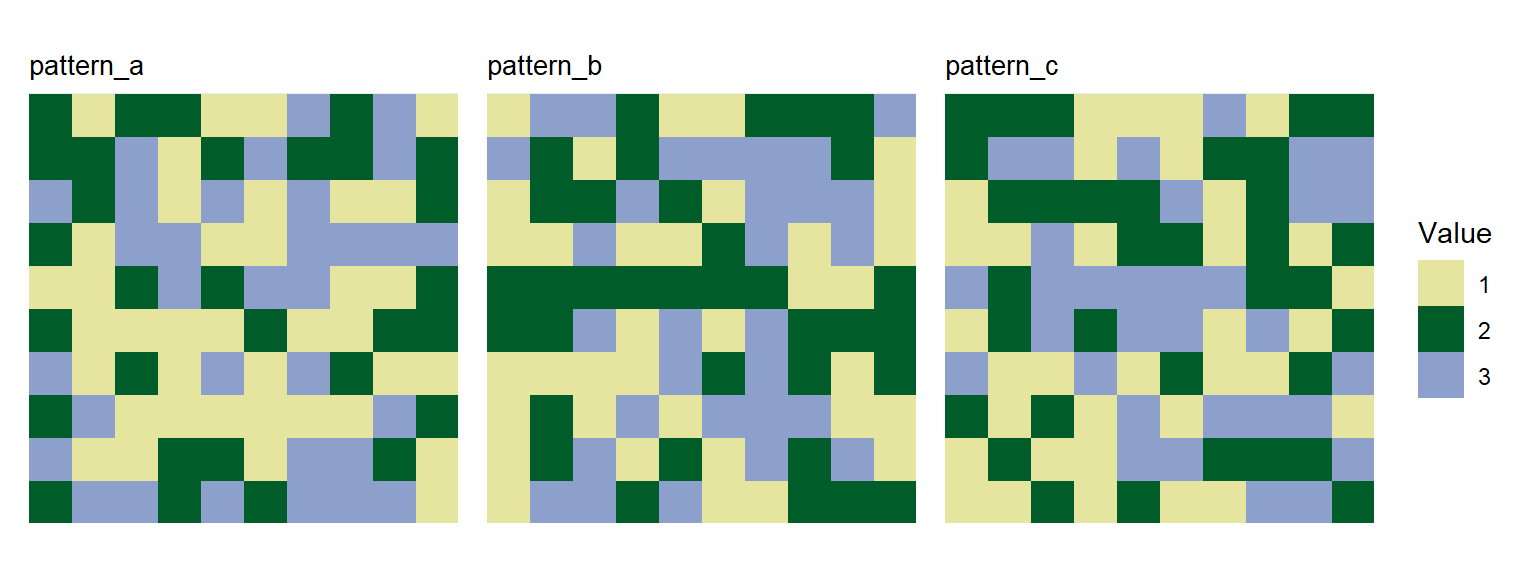
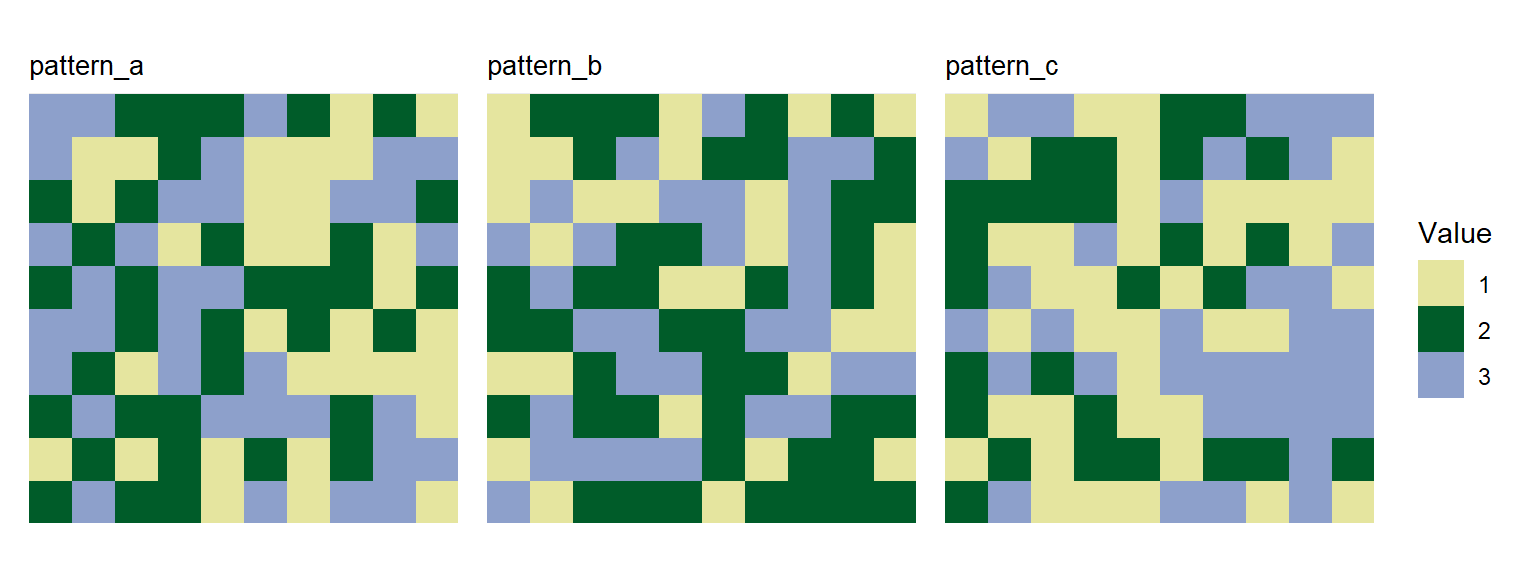
Update Website

diff --git a/docs/articles/landscape-generation.html b/docs/articles/landscape-generation.html
@@ -92,7 +92,7 @@
 </h2>
 <p>You can:</p>
 <ul>
-<li>Generate batches of training landscapes with <code><a href="../reference/create_training_landscapes.html">create_training_landscapes()</a></code>
+<li>Generate batches of training landscapes with <code><a href="../reference/create_landscapes.html">create_landscapes()</a></code>
 </li>
 <li>Create individual landscapes with custom parameters using <code><a href="../reference/create_landscape.html">create_landscape()</a></code>
 </li>
@@ -102,7 +102,7 @@
 </ul>
 <section class="level3"><h3 id="available-patterns">Available patterns<a class="anchor" aria-label="anchor" href="#available-patterns"></a>
 </h3>
-<p>There are 11 different spatial patterns available:</p>
+<p>Currently, there are 11 different spatial patterns available:</p>
 <section class="level4"><h4 id="control-patterns">Control patterns<a class="anchor" aria-label="anchor" href="#control-patterns"></a>
 </h4>
 <ul>
@@ -164,11 +164,11 @@
 <p>For detailed parameter descriptions and examples of each pattern type, see <code><a href="../reference/create_landscape.html">?create_landscape</a></code>.</p>
 </section></section></section><section class="level2"><h2 id="creating-multiple-training-landscapes">Creating Multiple Training Landscapes<a class="anchor" aria-label="anchor" href="#creating-multiple-training-landscapes"></a>
 </h2>
-<p>The quickest way to generate training data is with <code><a href="../reference/create_training_landscapes.html">create_training_landscapes()</a></code>. It generates multiple landscapes balanced across all available patterns.</p>
+<p>The quickest way to generate training data is with <code><a href="../reference/create_landscapes.html">create_landscapes()</a></code>. It generates multiple landscapes balanced across all available patterns.</p>
 <div class="cell">
 <div class="sourceCode cell-code" id="cb2"><pre class="downlit sourceCode r">
 <code class="sourceCode R"><span><span class="co"># Create 20 landscapes balanced across all pattern types</span></span>
-<span><span class="va">landscapes</span> <span class="op">&lt;-</span> <span class="fu"><a href="../reference/create_training_landscapes.html">create_training_landscapes</a></span><span class="op">(</span>n <span class="op">=</span> <span class="fl">20</span><span class="op">)</span></span>
+<span><span class="va">landscapes</span> <span class="op">&lt;-</span> <span class="fu"><a href="../reference/create_landscapes.html">create_landscapes</a></span><span class="op">(</span>n <span class="op">=</span> <span class="fl">20</span><span class="op">)</span></span>
 <span><span class="co">#&gt; ✔ Successfully generated all 20 training landscapes</span></span></code></pre></div>
 </div>
 <p>The <code>landscapes</code> are returned as a list of <code>landscape</code> objects (see <a href="landscape-generation.qmd#landscape-object-structure">below</a> for more info on the data structure).</p>
@@ -201,7 +201,7 @@
 <div class="cell">
 <div class="sourceCode cell-code" id="cb5"><pre class="downlit sourceCode r">
 <code class="sourceCode R"><span><span class="co"># Generate only specific patterns</span></span>
-<span><span class="va">landscapes</span> <span class="op">&lt;-</span> <span class="fu"><a href="../reference/create_training_landscapes.html">create_training_landscapes</a></span><span class="op">(</span></span>
+<span><span class="va">landscapes</span> <span class="op">&lt;-</span> <span class="fu"><a href="../reference/create_landscapes.html">create_landscapes</a></span><span class="op">(</span></span>
 <span>  n <span class="op">=</span> <span class="fl">12</span>,</span>
 <span>  patterns <span class="op">=</span> <span class="fu"><a href="https://rdrr.io/r/base/c.html" class="external-link">c</a></span><span class="op">(</span><span class="st">"labyrinth"</span>, <span class="st">"spots"</span>, <span class="st">"clustered"</span><span class="op">)</span></span>
 <span><span class="op">)</span></span>
@@ -222,7 +222,7 @@
 <p>To modify the size (number of pixels in x- and y-direction) of all generated landscapes, use the <code>ncol</code> and <code>nrow</code> arguments. By default, landscapes are created with a size of 100x100 pixels.</p>
 <div class="cell">
 <div class="sourceCode cell-code" id="cb6"><pre class="downlit sourceCode r">
-<code class="sourceCode R"><span><span class="va">non_square</span> <span class="op">&lt;-</span> <span class="fu"><a href="../reference/create_training_landscapes.html">create_training_landscapes</a></span><span class="op">(</span></span>
+<code class="sourceCode R"><span><span class="va">non_square</span> <span class="op">&lt;-</span> <span class="fu"><a href="../reference/create_landscapes.html">create_landscapes</a></span><span class="op">(</span></span>
 <span>  n <span class="op">=</span> <span class="fl">3</span>,</span>
 <span>  width <span class="op">=</span> <span class="fl">50</span>,</span>
 <span>  height <span class="op">=</span> <span class="fl">20</span></span>
@@ -244,13 +244,13 @@
 <p>You can also control used rotation angles directly using <code>rotation_angles</code>.</p>
 <div class="cell">
 <div class="sourceCode cell-code" id="cb7"><pre class="downlit sourceCode r">
-<code class="sourceCode R"><span><span class="va">no_rotation</span> <span class="op">&lt;-</span> <span class="fu"><a href="../reference/create_training_landscapes.html">create_training_landscapes</a></span><span class="op">(</span></span>
+<code class="sourceCode R"><span><span class="va">no_rotation</span> <span class="op">&lt;-</span> <span class="fu"><a href="../reference/create_landscapes.html">create_landscapes</a></span><span class="op">(</span></span>
 <span>  n <span class="op">=</span> <span class="fl">3</span>,</span>
 <span>  patterns <span class="op">=</span> <span class="fu"><a href="https://rdrr.io/r/base/c.html" class="external-link">c</a></span><span class="op">(</span><span class="st">"clustered"</span>, <span class="st">"sharp"</span>, <span class="st">"bands"</span><span class="op">)</span>,</span>
 <span>  add_rotation <span class="op">=</span> <span class="cn">FALSE</span></span>
 <span><span class="op">)</span></span>
 <span></span>
-<span><span class="va">defined_angles</span> <span class="op">&lt;-</span> <span class="fu"><a href="../reference/create_training_landscapes.html">create_training_landscapes</a></span><span class="op">(</span></span>
+<span><span class="va">defined_angles</span> <span class="op">&lt;-</span> <span class="fu"><a href="../reference/create_landscapes.html">create_landscapes</a></span><span class="op">(</span></span>
 <span>  n <span class="op">=</span> <span class="fl">3</span>,</span>
 <span>  patterns <span class="op">=</span> <span class="st">"clustered"</span>,</span>
 <span>  rotation_angles <span class="op">=</span> <span class="fu"><a href="https://rdrr.io/r/base/c.html" class="external-link">c</a></span><span class="op">(</span><span class="fl">45</span>, <span class="fl">90</span><span class="op">)</span></span>
@@ -277,7 +277,7 @@
 <span>    spot_radius_sd <span class="op">=</span> <span class="fl">3</span></span>
 <span>  <span class="op">)</span></span>
 <span><span class="op">)</span></span>
-<span><span class="va">bigger_spots</span> <span class="op">&lt;-</span> <span class="fu"><a href="../reference/create_training_landscapes.html">create_training_landscapes</a></span><span class="op">(</span></span>
+<span><span class="va">bigger_spots</span> <span class="op">&lt;-</span> <span class="fu"><a href="../reference/create_landscapes.html">create_landscapes</a></span><span class="op">(</span></span>
 <span>  n <span class="op">=</span> <span class="fl">12</span>,</span>
 <span>  patterns <span class="op">=</span> <span class="st">"spots"</span>,</span>
 <span>  params_list <span class="op">=</span> <span class="va">pattern_params</span></span>

diff --git a/docs/articles/classify-metrics.html b/docs/articles/classify-metrics.html
@@ -91,7 +91,7 @@
 </div>
 <p>The workflow consists of the following steps:</p>
 <ol type="1">
-<li>Generate training landscapes with known patterns using the <code><a href="../reference/create_training_landscapes.html">create_training_landscapes()</a></code> function.</li>
+<li>Generate training landscapes with known patterns using the <code><a href="../reference/create_landscapes.html">create_landscapes()</a></code> function.</li>
 <li>Calculate landscape metrics for the training landscapes using the <code><a href="../reference/calculate_landscape_metrics.html">calculate_landscape_metrics()</a></code> function.</li>
 <li>Select most informative metrics (i.e. metrics that differ the most between landscapes) using the <code><a href="../reference/evaluate_landscape_metrics.html">evaluate_landscape_metrics()</a></code> function.</li>
 <li>Train a neural network using the selected metrics with the <code><a href="../reference/train_nn_metrics.html">train_nn_metrics()</a></code> function.</li>
@@ -103,7 +103,7 @@
 <div class="cell">
 <div class="sourceCode cell-code" id="cb2"><pre class="downlit sourceCode r">
 <code class="sourceCode R"><span><span class="co"># Generate 100 training landscapes of 3 patterns</span></span>
-<span><span class="va">landscapes</span> <span class="op">&lt;-</span> <span class="fu"><a href="../reference/create_training_landscapes.html">create_training_landscapes</a></span><span class="op">(</span></span>
+<span><span class="va">landscapes</span> <span class="op">&lt;-</span> <span class="fu"><a href="../reference/create_landscapes.html">create_landscapes</a></span><span class="op">(</span></span>
 <span>  n <span class="op">=</span> <span class="fl">100</span>,</span>
 <span>  patterns <span class="op">=</span> <span class="fu"><a href="https://rdrr.io/r/base/c.html" class="external-link">c</a></span><span class="op">(</span><span class="st">"labyrinth"</span>, <span class="st">"random"</span>, <span class="st">"clustered"</span><span class="op">)</span></span>
 <span><span class="op">)</span></span>
@@ -123,11 +123,11 @@
 </div>
 </section><section class="level2"><h2 id="step-3-evaluate-landscape-metrics">Step 3: Evaluate Landscape Metrics<a class="anchor" aria-label="anchor" href="#step-3-evaluate-landscape-metrics"></a>
 </h2>
-<p>You can use the <code>evaluate_landscape_metrics</code> function to select the 10 most informative metrics for classification based on different methods. Here, we use the p-values of a Kruskal-Wallis H test (for more details and other options see <a href="landscape-metrics.html">landscape metrics vignette</a>).</p>
+<p>You can use the <code>evaluate_landscape_metrics</code> function to select the n (e.g. n=10) most informative metrics for classification based on different methods. Here, we use the p-values of a Kruskal-Wallis H test (for more details and other options see <a href="landscape-metrics.html">landscape metrics vignette</a>).</p>
 <div>
 <blockquote>
 <p><strong>Note</strong></p>
-<p>Note, that some metrics may return <code>NA</code> for some landscapes. Also, some metrics may have the same value for each landscape (zero variance between the values). These metrics get removed before evaluation and the user gets warned about the metrics that are removed.</p>
+<p>Note, that some metrics may return <code>NA</code> for some landscapes. Also, some metrics may have the same value for each landscape (zero variance between the values). By default, these metrics are removed before evaluation and the user gets warned about the metrics that are removed.</p>
 <p>It is not recommended to set <code>exclude_na = FALSE</code>, as metrics with <code>NA</code> values cannot be used for training the neural network. They may however be informative and useful for other types of analyses.</p>
 </blockquote>
 </div>
@@ -144,6 +144,7 @@
 <span><span class="co">#&gt; `exclude_NA_metrics = FALSE` to retain (not recommended for model training)</span></span>
 <span><span class="co">#&gt; Warning: Excluded 1 metrics with zero variance: "pr"</span></span></code></pre></div>
 </div>
+<p>Alternatively, you can manually select the metrics you want to use for further evaluation. For this, just provide a list of the metric names you are interested in.</p>
 <p>You can plot the differences between patterns for the selected metrics using the <code>plot_metrics</code> function.</p>
 <div class="cell">
 <div class="sourceCode cell-code" id="cb5"><pre class="downlit sourceCode r">
@@ -182,7 +183,7 @@
 <span>  verbose <span class="op">=</span> <span class="cn">FALSE</span></span>
 <span><span class="op">)</span></span></code></pre></div>
 </div>
-<p>To check the model performance, we can look at the confusion matrix from cross-validation:</p>
+<p>To check the model performance, you can look at the confusion matrix from cross-validation:</p>
 <div class="cell">
 <div class="sourceCode cell-code" id="cb7"><pre class="downlit sourceCode r">
 <code class="sourceCode R"><span><span class="co"># Confusion matrix from cross-validation</span></span>
@@ -214,17 +215,17 @@
 </section><section class="level2"><h2 id="step-5-classify-new-landscapes">Step 5: Classify New Landscapes<a class="anchor" aria-label="anchor" href="#step-5-classify-new-landscapes"></a>
 </h2>
 <p>Finally, you can create some new test landscapes and classify them using the trained model. In this example, we create 10 new landscapes for testing.</p>
-<p>In reality this could be landscapes read in from files or created in other ways. For details on importing own landscapes, see the <a href="importing-landscapes.html">importing landscapes vignette</a>.</p>
+<p>In reality these could be landscapes read in from files or created in other ways (e.g. outputs of simulation models). For details on importing own landscapes, see the <a href="importing-landscapes.html">importing landscapes vignette</a>.</p>
 <div class="cell">
 <div class="sourceCode cell-code" id="cb10"><pre class="downlit sourceCode r">
 <code class="sourceCode R"><span><span class="co"># Create 10 new test landscapes using the same patterns as for training</span></span>
-<span><span class="va">test_landscapes</span> <span class="op">&lt;-</span> <span class="fu"><a href="../reference/create_training_landscapes.html">create_training_landscapes</a></span><span class="op">(</span></span>
+<span><span class="va">test_landscapes</span> <span class="op">&lt;-</span> <span class="fu"><a href="../reference/create_landscapes.html">create_landscapes</a></span><span class="op">(</span></span>
 <span>  n <span class="op">=</span> <span class="fl">10</span>,</span>
 <span>  patterns <span class="op">=</span> <span class="fu"><a href="https://rdrr.io/r/base/c.html" class="external-link">c</a></span><span class="op">(</span><span class="st">"labyrinth"</span>, <span class="st">"random"</span>, <span class="st">"clustered"</span><span class="op">)</span></span>
 <span><span class="op">)</span></span>
 <span><span class="co">#&gt; ✔ Successfully generated all 10 training landscapes</span></span></code></pre></div>
 </div>
-<p>If test landscapes have been created with <code><a href="../reference/create_training_landscapes.html">create_training_landscapes()</a></code>, their true patterns are known. Therefore they can be used to evaluate classification performance.</p>
+<p>If test landscapes have been created with <code><a href="../reference/create_landscapes.html">create_landscapes()</a></code>, their true patterns are known. Therefore they can be used to evaluate classification performance.</p>
 <div>
 <blockquote>
 <p><strong>Note</strong></p>

diff --git a/docs/articles/classify-pixels.html b/docs/articles/classify-pixels.html
@@ -88,7 +88,7 @@
 </div>
 <p>The workflow consists of the following steps:</p>
 <ol type="1">
-<li>Generate training landscapes with known patterns using the <code><a href="../reference/create_training_landscapes.html">create_training_landscapes()</a></code> function.</li>
+<li>Generate training landscapes with known patterns using the <code><a href="../reference/create_landscapes.html">create_landscapes()</a></code> function.</li>
 <li>Train a neural network on the landscape pixel data using the <code><a href="../reference/train_nn_pixels.html">train_nn_pixels()</a></code> function.</li>
 <li>Classify new landscapes using the trained model with the <code><a href="../reference/apply_nn_pixels.html">apply_nn_pixels()</a></code> function.</li>
 </ol>
@@ -116,7 +116,7 @@
 <p>You can generate a set of training landscapes with known patterns. See <a href="landscape-generation.html">landscape generation vignette</a> for details on landscape generation and available patterns and options.</p>
 <div class="cell">
 <div class="sourceCode cell-code" id="cb4"><pre class="downlit sourceCode r">
-<code class="sourceCode R"><span><span class="va">training_landscapes</span> <span class="op">&lt;-</span> <span class="fu"><a href="../reference/create_training_landscapes.html">create_training_landscapes</a></span><span class="op">(</span></span>
+<code class="sourceCode R"><span><span class="va">training_landscapes</span> <span class="op">&lt;-</span> <span class="fu"><a href="../reference/create_landscapes.html">create_landscapes</a></span><span class="op">(</span></span>
 <span>  n <span class="op">=</span> <span class="fl">100</span>,</span>
 <span>  patterns <span class="op">=</span> <span class="fu"><a href="https://rdrr.io/r/base/c.html" class="external-link">c</a></span><span class="op">(</span><span class="st">"labyrinth"</span>, <span class="st">"random"</span>, <span class="st">"clustered"</span><span class="op">)</span></span>
 <span><span class="op">)</span></span>
@@ -188,13 +188,13 @@
 <p>In reality this could be landscapes read in from files or created in other ways. For details on importing own landscapes, see the <a href="importing-landscapes.html">importing landscapes vignette</a>.</p>
 <div class="cell">
 <div class="sourceCode cell-code" id="cb9"><pre class="downlit sourceCode r">
-<code class="sourceCode R"><span><span class="va">test_landscapes</span> <span class="op">&lt;-</span> <span class="fu"><a href="../reference/create_training_landscapes.html">create_training_landscapes</a></span><span class="op">(</span></span>
+<code class="sourceCode R"><span><span class="va">test_landscapes</span> <span class="op">&lt;-</span> <span class="fu"><a href="../reference/create_landscapes.html">create_landscapes</a></span><span class="op">(</span></span>
 <span>  n <span class="op">=</span> <span class="fl">20</span>,</span>
 <span>  patterns <span class="op">=</span> <span class="fu"><a href="https://rdrr.io/r/base/c.html" class="external-link">c</a></span><span class="op">(</span><span class="st">"labyrinth"</span>, <span class="st">"random"</span>, <span class="st">"clustered"</span><span class="op">)</span></span>
 <span><span class="op">)</span></span>
 <span><span class="co">#&gt; ✔ Successfully generated all 20 training landscapes</span></span></code></pre></div>
 </div>
-<p>If test landscapes have been created with <code><a href="../reference/create_training_landscapes.html">create_training_landscapes()</a></code>, their true patterns are known. Therefore they can be used to evaluate classification performance.</p>
+<p>If test landscapes have been created with <code><a href="../reference/create_landscapes.html">create_landscapes()</a></code>, their true patterns are known. Therefore they can be used to evaluate classification performance.</p>
 <div>
 <blockquote>
 <p><strong>Note</strong></p>

diff --git a/docs/articles/spatPatClassifyR.html b/docs/articles/spatPatClassifyR.html
@@ -5,14 +5,14 @@
 <meta charset="utf-8">
 <meta http-equiv="X-UA-Compatible" content="IE=edge">
 <meta name="viewport" content="width=device-width, initial-scale=1, shrink-to-fit=no">
-<title>Get started with spatPatClassifyR • spatPatClassifyR</title>
+<title>Getting started with spatPatClassifyR • spatPatClassifyR</title>
 <script src="../lightswitch.js"></script><script src="../deps/jquery-3.6.0/jquery-3.6.0.min.js"></script><meta name="viewport" content="width=device-width, initial-scale=1, shrink-to-fit=no">
 <link href="../deps/bootstrap-5.3.1/bootstrap.min.css" rel="stylesheet">
 <script src="../deps/bootstrap-5.3.1/bootstrap.bundle.min.js"></script><link href="../deps/font-awesome-6.5.2/css/all.min.css" rel="stylesheet">
 <link href="../deps/font-awesome-6.5.2/css/v4-shims.min.css" rel="stylesheet">
 <script src="../deps/headroom-0.11.0/headroom.min.js"></script><script src="../deps/headroom-0.11.0/jQuery.headroom.min.js"></script><script src="../deps/bootstrap-toc-1.0.1/bootstrap-toc.min.js"></script><script src="../deps/clipboard.js-2.0.11/clipboard.min.js"></script><script src="../deps/search-1.0.0/autocomplete.jquery.min.js"></script><script src="../deps/search-1.0.0/fuse.min.js"></script><script src="../deps/search-1.0.0/mark.min.js"></script><script src="spatPatClassifyR_files/libs/quarto-html/popper.min.js"></script><script src="spatPatClassifyR_files/libs/quarto-html/tippy.umd.min.js"></script><link href="spatPatClassifyR_files/libs/quarto-html/tippy.css" rel="stylesheet">
 <link href="spatPatClassifyR_files/libs/quarto-html/light-border.css" rel="stylesheet">
-<!-- pkgdown --><script src="../pkgdown.js"></script><meta property="og:title" content="Get started with spatPatClassifyR">
+<!-- pkgdown --><script src="../pkgdown.js"></script><meta property="og:title" content="Getting started with spatPatClassifyR">
 </head>
 <body>
     <a href="#main" class="visually-hidden-focusable">Skip to contents</a>
@@ -67,7 +67,7 @@
 <div class="row">
   <main id="main" class="col-md-9"><div class="page-header">
 
-      <h1>Get started with spatPatClassifyR</h1>
+      <h1>Getting started with spatPatClassifyR</h1>
 
 
 
@@ -82,12 +82,12 @@
 
 
     <p>There are two main workflows to classify landscape patterns using the <code>spatPatClassifyR</code> package: Either using landscape metrics as features for classification, or using convolutional neural networks (CNNs) to classify patterns directly from the pixel information of landscape images.</p>
-<p>Please refer to the respective vignettes for detailed guides on each workflow:</p>
+<p>Detailed guides for each workflow are provided in the corresponding vignettes:</p>
 <ul>
 <li><a href="classify-metrics.html">Classify landscapes using landscape metrics</a></li>
 <li><a href="classify-pixels.html">Classify landscapes using Keras on landscape rasters</a></li>
 </ul>
-<p>There are also more detailed vignettes on specific topics:</p>
+<p>There are also more detailed vignettes on specific landscape-related topics:</p>
 <ul>
 <li><a href="importing-landscapes.html">Importing user-defined landscapes</a></li>
 <li><a href="landscape-generation.html">Landscape generation</a></li>

diff --git a/docs/articles/landscape-metrics.html b/docs/articles/landscape-metrics.html
@@ -88,7 +88,7 @@
 <span><span class="fu"><a href="https://rdrr.io/r/base/Random.html" class="external-link">set.seed</a></span><span class="op">(</span><span class="fl">123456</span><span class="op">)</span></span>
 <span></span>
 <span><span class="co"># Generate sample landscapes</span></span>
-<span><span class="va">sample_landscapes</span> <span class="op">&lt;-</span> <span class="fu"><a href="../reference/create_training_landscapes.html">create_training_landscapes</a></span><span class="op">(</span></span>
+<span><span class="va">sample_landscapes</span> <span class="op">&lt;-</span> <span class="fu"><a href="../reference/create_landscapes.html">create_landscapes</a></span><span class="op">(</span></span>
 <span>  n <span class="op">=</span> <span class="fl">20</span>,</span>
 <span>  patterns <span class="op">=</span> <span class="fu"><a href="https://rdrr.io/r/base/c.html" class="external-link">c</a></span><span class="op">(</span><span class="st">"random"</span>, <span class="st">"sharp"</span>, <span class="st">"labyrinth"</span><span class="op">)</span>,</span>
 <span>  width <span class="op">=</span> <span class="fl">50</span>,</span>
@@ -127,7 +127,7 @@
 <span>  <span class="va">sample_landscapes</span>,</span>
 <span>  level <span class="op">=</span> <span class="st">"landscape"</span></span>
 <span><span class="op">)</span></span>
-<span><span class="co">#&gt;  ■■■■■■■■■■■■■■■■■                 53% |  ETA:  3s</span></span></code></pre></div>
+<span><span class="co">#&gt;  ■■■■■■■■■■■■■■■■                  52% |  ETA:  3s</span></span></code></pre></div>
 </div>
 <p>To calculate selected metrics, provide a vector of valide metric names to the <code>metrics</code> argument. Find available metric names using <code><a href="https://r-spatialecology.github.io/landscapemetrics/reference/list_lsm.html" class="external-link">landscapemetrics::list_lsm()</a></code> as shown above.</p>
 <div class="cell">

diff --git a/docs/articles/install-keras.html b/docs/articles/install-keras.html
@@ -152,7 +152,7 @@
 <div class="sourceCode cell-code" id="cb7"><pre class="downlit sourceCode r">
 <code class="sourceCode R"><span><span class="fu">keras3</span><span class="fu">::</span><span class="fu"><a href="https://keras3.posit.co/reference/to_categorical.html" class="external-link">to_categorical</a></span><span class="op">(</span><span class="fl">0</span><span class="op">)</span></span></code></pre></div>
 </div>
-<p>If this prints a matrix without errors, your Keras installation is working correctly!</p>
+<p>If this prints a matrix without errors, your Keras installation is working correctly.</p>
 </section><script id="quarto-html-after-body" type="application/javascript">
   window.document.addEventListener("DOMContentLoaded", function (event) {
       var localhostRegex = new RegExp(/^(?:http|https):\/\/localhost\:?[0-9]*\//);

diff --git a/docs/articles/index.html b/docs/articles/index.html
@@ -62,7 +62,7 @@
         <dd>
         </dd><dt><a href="landscape-metrics.html">landscape-metrics</a></dt>
         <dd>
-        </dd><dt><a href="spatPatClassifyR.html">Get started with spatPatClassifyR</a></dt>
+        </dd><dt><a href="spatPatClassifyR.html">Getting started with spatPatClassifyR</a></dt>
         <dd>
       </dd></dl></div>
   </main></div>
